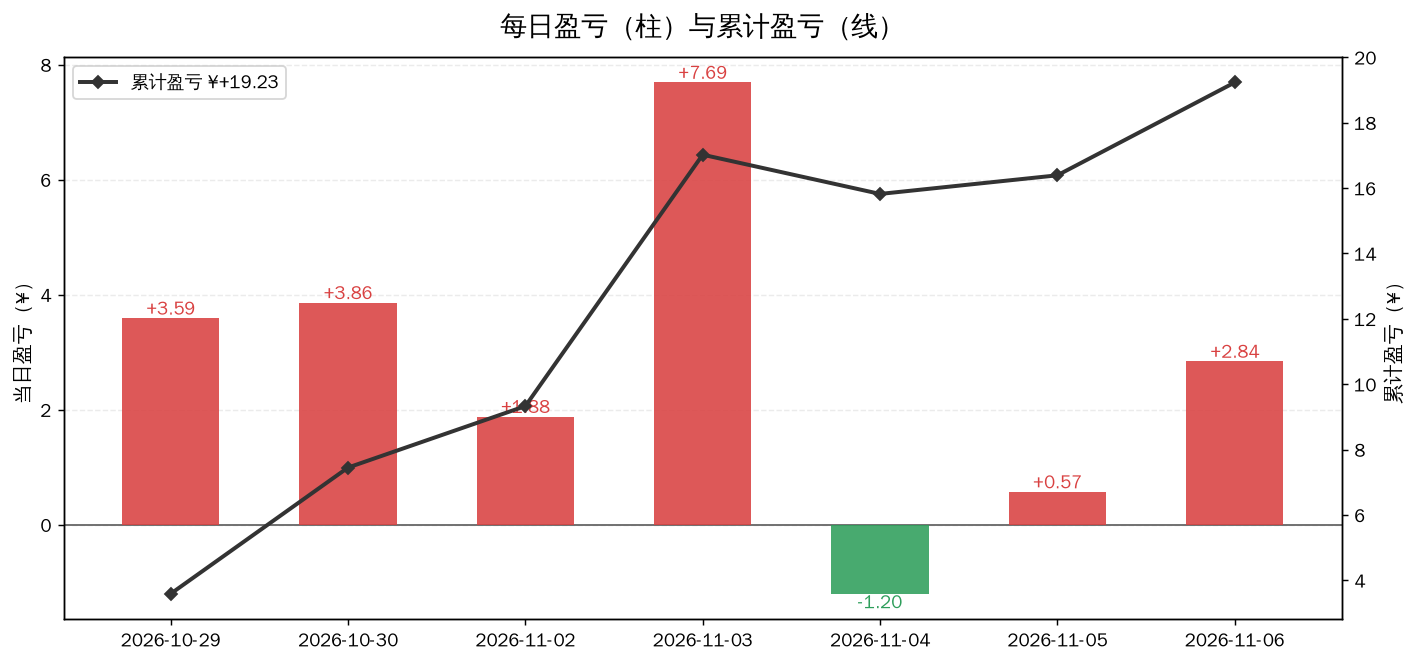
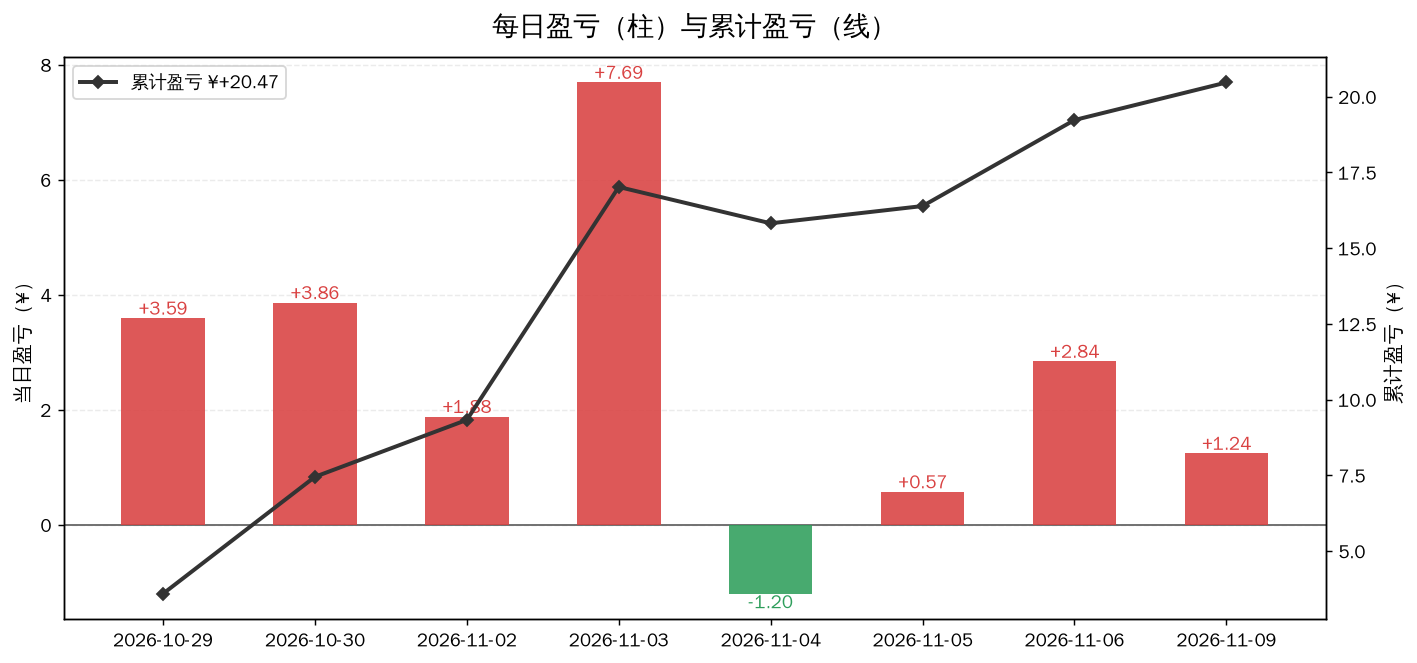
sim: dashboard update 2026-11-09 (equity ¥1020.47, +2.047%)

diff --git a/sim/DASHBOARD.md b/sim/DASHBOARD.md
@@ -1,8 +1,8 @@
 # 📊 模拟盘动态看板
 
-> **自动生成** · 最后更新 **2026-11-06 16:30** · 数据源：腾讯财经公开接口（实时行情）
+> **自动生成** · 最后更新 **2026-11-09 16:31** · 数据源：腾讯财经公开接口（实时行情）
 >
-> 本金 **¥1000.00** · 开仓 **2026-10-28** · 当前总权益 **¥1019.23** · 累计 **+1.923%**
+> 本金 **¥1000.00** · 开仓 **2026-10-28** · 当前总权益 **¥1020.47** · 累计 **+2.047%**
 >
 > ⚠ **纯模拟盘学习实验，不构成投资建议。**
 >
@@ -12,9 +12,9 @@
 
 ## 🎯 30 秒版本
 
-1. 从 2026-10-28 开仓到今天，账户从 ¥1000 变成 **¥1019.23**，赚了 **¥19.23（+1.923%）**。
-2. 今天单日 **+0.28%**，上涨 **¥2.84**。
-3. 同期大盘：**沪深300 -0.72%** 最强，**创业板指 -6.43%** 最弱 —— 本组合跑赢同期最强基准 +2.65 个百分点。
+1. 从 2026-10-28 开仓到今天，账户从 ¥1000 变成 **¥1020.47**，赚了 **¥20.47（+2.047%）**。
+2. 今天单日 **+0.12%**，上涨 **¥1.24**。
+3. 同期大盘：**上证指数 -0.56%** 最强，**创业板指 -6.69%** 最弱 —— 本组合跑赢同期最强基准 +2.61 个百分点。
 
 ## 📈 盈亏曲线
 
@@ -34,7 +34,7 @@
 
 ![盘中曲线](assets/intraday.png)
 
-**怎么读**：2026-11-06 当天每 30 分钟记录一次的账户总值。灰色虚线是当天开盘起点，曲线在虚线上方就是当天浮盈。A 股中午 11:30–13:00 休市，所以那段是平的。
+**怎么读**：2026-11-09 当天每 30 分钟记录一次的账户总值。灰色虚线是当天开盘起点，曲线在虚线上方就是当天浮盈。A 股中午 11:30–13:00 休市，所以那段是平的。
 
 ### 💵 每日盈亏明细图
 
@@ -50,21 +50,21 @@
 
 | 指标 | 数值 | 人话解读 |
 |---|---|---|
-| 总权益 | **¥1019.23** | 现在全部卖掉能拿回多少钱（持仓市值 + 现金） |
-| 持仓市值 | ¥745.38（73.1%） | 买成 ETF 的部分 |
-| 现金 | ¥273.85（26.9%） | 留着没买的钱，按货基利率计息 |
-| 累计盈亏 | **¥+19.23（+1.923%）** | 相对 ¥1000 本金 |
-| 今日盈亏 | **+0.28%** | 今天一天的变化 |
-| 历史最高 | ¥1019.23 | 账户到过的最高点 |
+| 总权益 | **¥1020.47** | 现在全部卖掉能拿回多少钱（持仓市值 + 现金） |
+| 持仓市值 | ¥746.60（73.2%） | 买成 ETF 的部分 |
+| 现金 | ¥273.87（26.8%） | 留着没买的钱，按货基利率计息 |
+| 累计盈亏 | **¥+20.47（+2.047%）** | 相对 ¥1000 本金 |
+| 今日盈亏 | **+0.12%** | 今天一天的变化 |
+| 历史最高 | ¥1020.47 | 账户到过的最高点 |
 | 当前回撤 | +0.000% | 离最高点还差多少（负数=没回到最高点） |
 
 ### 持仓明细
 
 | 标的 | 代码 | 持股 | 成本价 | 现价 | 今日 | 市值 | 浮动盈亏 | 人话解读 |
 |---|---|---|---|---|---|---|---|---|
-| 红利低波100ETF景顺 | 515100 | 450 | ¥1.431 | ¥1.473 | 🔺+0.68% | ¥662.85 | **+18.90（+2.94%）** | 赚钱了 |
-| 黄金ETF华安 | 518880 | 10 | ¥8.226 | ¥8.253 | 🔻-1.98% | ¥82.53 | **+0.27（+0.33%）** | 赚钱了 |
-| 现金 | — | — | — | — | — | ¥273.85 | — | 货基计息，年化 0.84% |
+| 红利低波100ETF景顺 | 515100 | 450 | ¥1.431 | ¥1.473 | ➖+0.00% | ¥662.85 | **+18.90（+2.94%）** | 赚钱了 |
+| 黄金ETF华安 | 518880 | 10 | ¥8.226 | ¥8.375 | 🔺+1.48% | ¥83.75 | **+1.49（+1.81%）** | 赚钱了 |
+| 现金 | — | — | — | — | — | ¥273.87 | — | 货基计息，年化 0.84% |
 
 ---
 
@@ -110,23 +110,23 @@
 
 | 资产 | 目标占比 | 实际占比 | 偏离 | 判定 |
 |---|---|---|---|---|
-| 红利低波100ETF景顺 | 65% | 65.0% | +0.0pp | 🟢 正常，不动 |
-| 黄金ETF华安 | 8% | 8.1% | +0.1pp | 🟢 正常，不动 |
-| 现金（货基） | 27% | 26.9% | -0.1pp | 🟢 正常，不动 |
+| 红利低波100ETF景顺 | 65% | 65.0% | -0.0pp | 🟢 正常，不动 |
+| 黄金ETF华安 | 8% | 8.2% | +0.2pp | 🟢 正常，不动 |
+| 现金（货基） | 27% | 26.8% | -0.2pp | 🟢 正常，不动 |
 
 #### ② 补仓条件检查（规则：跌到成本价 -8% 触发补仓，每只最多 2 次）
 
 | 标的 | 成本价 | 现价 | 距成本 | 已补仓 | 判定 |
 |---|---|---|---|---|---|
 | 红利低波100ETF景顺 | ¥1.431 | ¥1.473 | +2.94% | 0/2 | 🟢 未触发（还差 10.9pp 才到 -8%） |
-| 黄金ETF华安 | ¥8.226 | ¥8.253 | +0.33% | 0/2 | 🟢 未触发（还差 8.3pp 才到 -8%） |
+| 黄金ETF华安 | ¥8.226 | ¥8.375 | +1.81% | 0/2 | 🟢 未触发（还差 9.8pp 才到 -8%） |
 
 #### ③ 回撤检查（规则：账户从最高点回撤 -5% 只记录、不割肉）
 
 | 指标 | 数值 |
 |---|---|
-| 历史最高净值 | ¥1019.23（2026-11-06） |
-| 当前净值 | ¥1019.23（2026-11-06） |
+| 历史最高净值 | ¥1020.47（2026-11-09） |
+| 当前净值 | ¥1020.47（2026-11-09） |
 | 回撤幅度 | **+0.000%** |
 | 触发阈值 | -5% |
 
@@ -137,6 +137,14 @@
 > ⏸ **账户已冻结，不执行任何交易。** 以上检查仅作记录用途——共扫描 6 项纪律，触发 **0** 项。冻结状态下即使触发也不动手（用户决定不投 A 股）。
 
 ### 四、每日决策记录（当时怎么判断的）
+
+#### 📅 2026-11-09 · 权益 ¥1020.47（累计 +2.047%）
+
+- 总权益 **¥1020.47**（当日 +0.12% / 累计 +2.047%）
+- 红利低波100ETF景顺 1.473 (+0.00%)
+- 黄金ETF华安 8.375 (+1.48%)
+- 现金 ¥273.87
+- 📝 自动收盘估值（看板 cron）
 
 #### 📅 2026-11-06 · 权益 ¥1019.23（累计 +1.923%）
 
@@ -209,9 +217,9 @@
 
 | 指数 | 同期涨跌 | 本组合超额 | 人话解读 |
 |---|---|---|---|
-| 沪深300 | -0.72% | **+2.65pp** | 跑赢 2.65 个百分点 |
-| 创业板指 | -6.43% | **+8.36pp** | 跑赢 8.36 个百分点 |
-| 上证指数 | -0.88% | **+2.80pp** | 跑赢 2.80 个百分点 |
+| 沪深300 | -0.68% | **+2.73pp** | 跑赢 2.73 个百分点 |
+| 创业板指 | -6.69% | **+8.73pp** | 跑赢 8.73 个百分点 |
+| 上证指数 | -0.56% | **+2.61pp** | 跑赢 2.61 个百分点 |
 
 > 注：`pp` = percentage point（百分点），是两个百分比相减的单位。「+2.5pp」意思是「比它高 2.5 个百分点」，不是「高 2.5%」。
 
@@ -227,6 +235,7 @@
 | 2026-11-04 | ¥1015.82 | ¥741.99 | ¥273.83 | +1.582% |
 | 2026-11-05 | ¥1016.39 | ¥742.55 | ¥273.84 | +1.639% |
 | 2026-11-06 | ¥1019.23 | ¥745.38 | ¥273.85 | +1.923% |
+| 2026-11-09 | ¥1020.47 | ¥746.60 | ¥273.87 | +2.047% |
 
 ---
 
@@ -239,4 +248,4 @@
 
 ---
 
-_本页由 `dashboard.py` 自动生成于 2026-11-06 16:30:57，每个交易日收盘后刷新。_
+_本页由 `dashboard.py` 自动生成于 2026-11-09 16:31:02，每个交易日收盘后刷新。_
